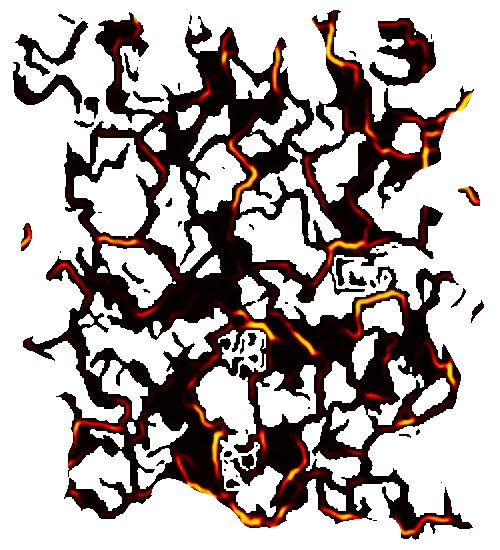
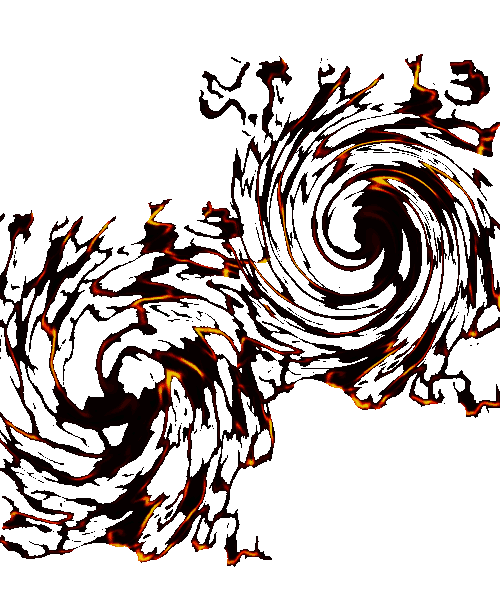
started parallax bg

diff --git a/js/Background.js b/js/Background.js
@@ -32,7 +32,7 @@ Background.prototype.draw = function()
 {        
 	var img = new Image();
 	var fx_img = new Image();
-        
+        /*
 	if (currentLevel == 1)
 	{
 		fx_img.src = "/game/danmaku/img/bg/st1_overlay00a.png";
@@ -41,11 +41,12 @@ Background.prototype.draw = function()
 	else if (currentLevel == 2)
 	{
 		fx_img.src = "/game/danmaku/img/bg/st2_overlay00a.png";
-		img.src = "/game/danmaku/img/bg/lotusland2.png";
+		img.src = "/game/danmaku/img/bg/st2_layer00.jpg";
 	}
-	else if (currentLevel == 3)
+	else */if (currentLevel == 1)
 	{
-		img.src = "/game/danmaku/img/bg/forest.png";
+		fx_img.src = "/game/danmaku/img/bg/st3_overlay00a.png";
+		img.src = "/game/danmaku/img/bg/st3_layer00.jpg";
 	}
 	else if (currentLevel == 4)
 	{
@@ -63,8 +64,8 @@ Background.prototype.draw = function()
 	else if (this.fx_y2 > 549) {
 		this.fx_y2 = -448;
 	}
-	this.fx_y += 2;
-	this.fx_y2 += 2;	
+	this.fx_y += 3;
+	this.fx_y2 += 3;	
 
 	// standard routine to draw the background
 	if (this.y > 600) {
